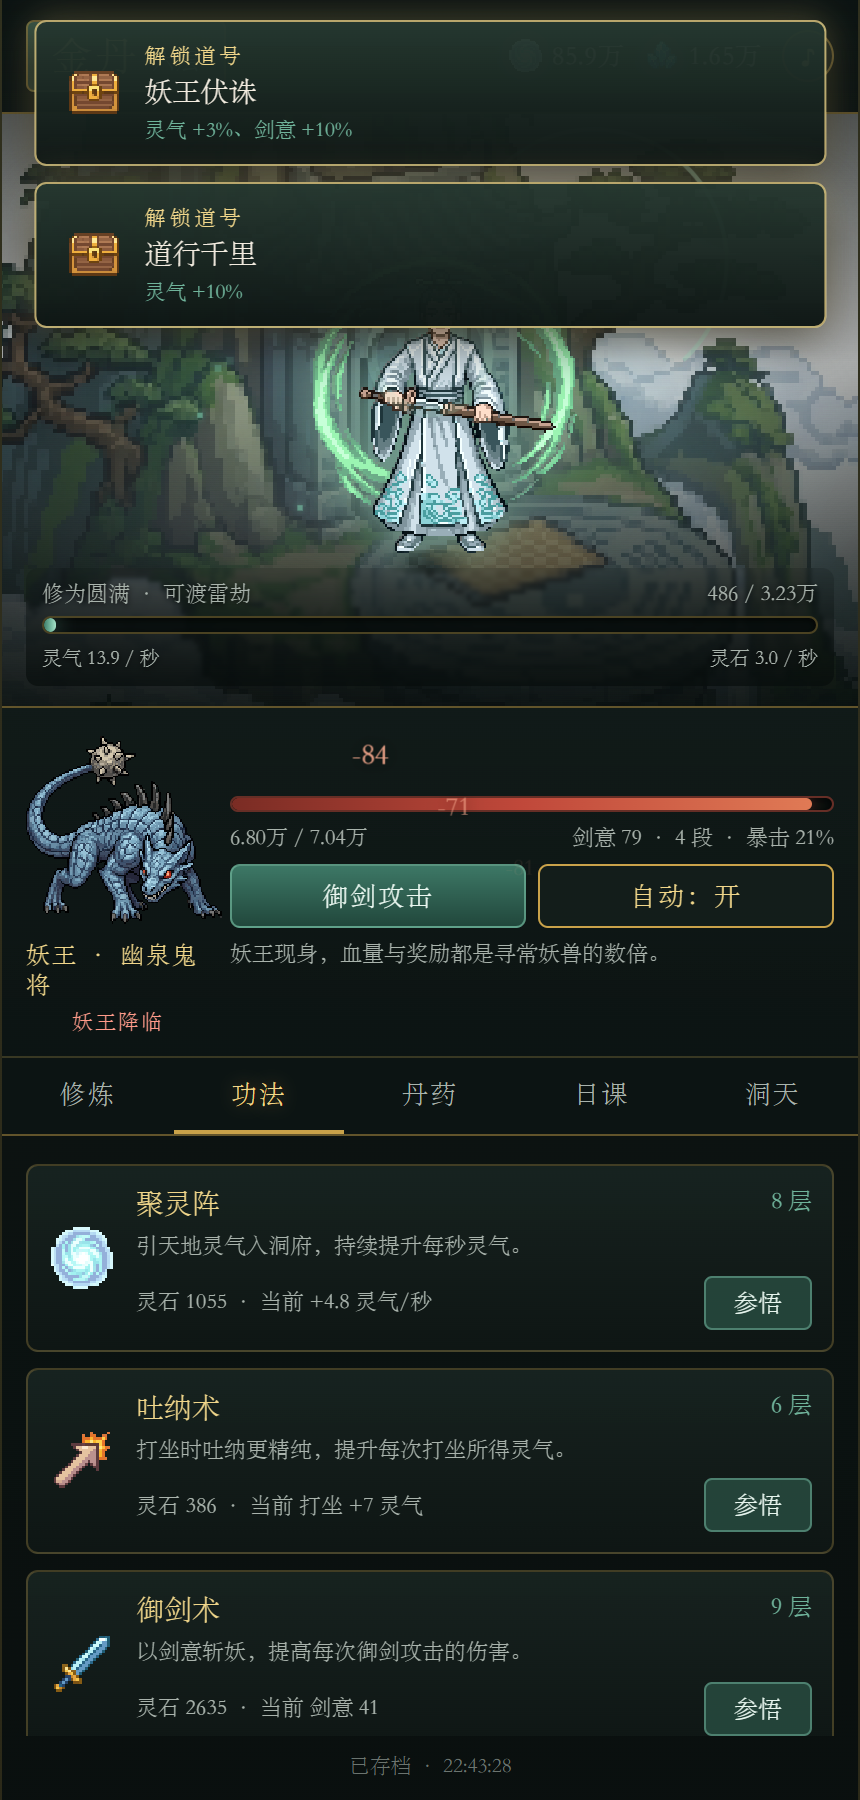
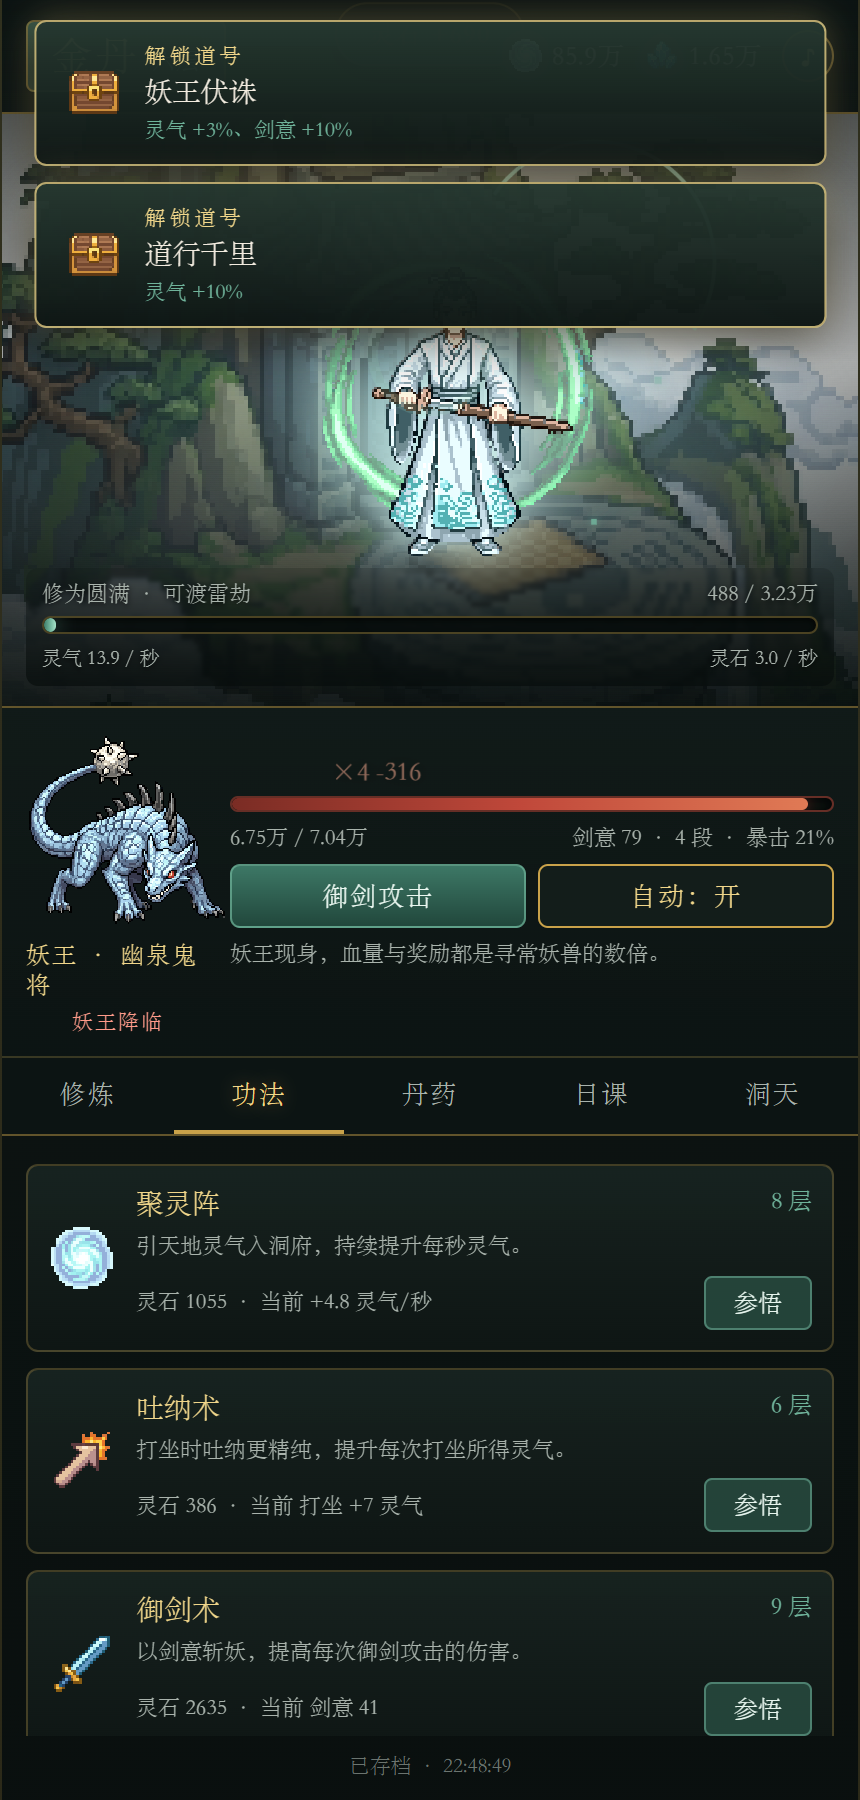
多段攻击的伤害数字改为合计显示，减少飘字拥挤

diff --git a/game.js b/game.js
@@ -1211,11 +1211,11 @@
     void ui.beastImage.offsetWidth;
     ui.beastImage.classList.add('hurt');
     playAttackFx();
-    damages.forEach(function (hit, index) {
-      setTimeout(function () {
-        spawnDamageNumber((hit.crit ? '暴击 ' : '') + '-' + fmt(hit.value), hit.crit, index);
-      }, index * 80);
-    });
+    if (hits > 1) {
+      spawnDamageNumber((crit ? '暴击 ' : '') + '×' + hits + ' -' + fmt(total), crit);
+    } else {
+      spawnDamageNumber((crit ? '暴击 ' : '') + '-' + fmt(total), crit);
+    }
     if (crit) {
       ui.stage.classList.remove('shake-soft');
       void ui.stage.offsetWidth;
